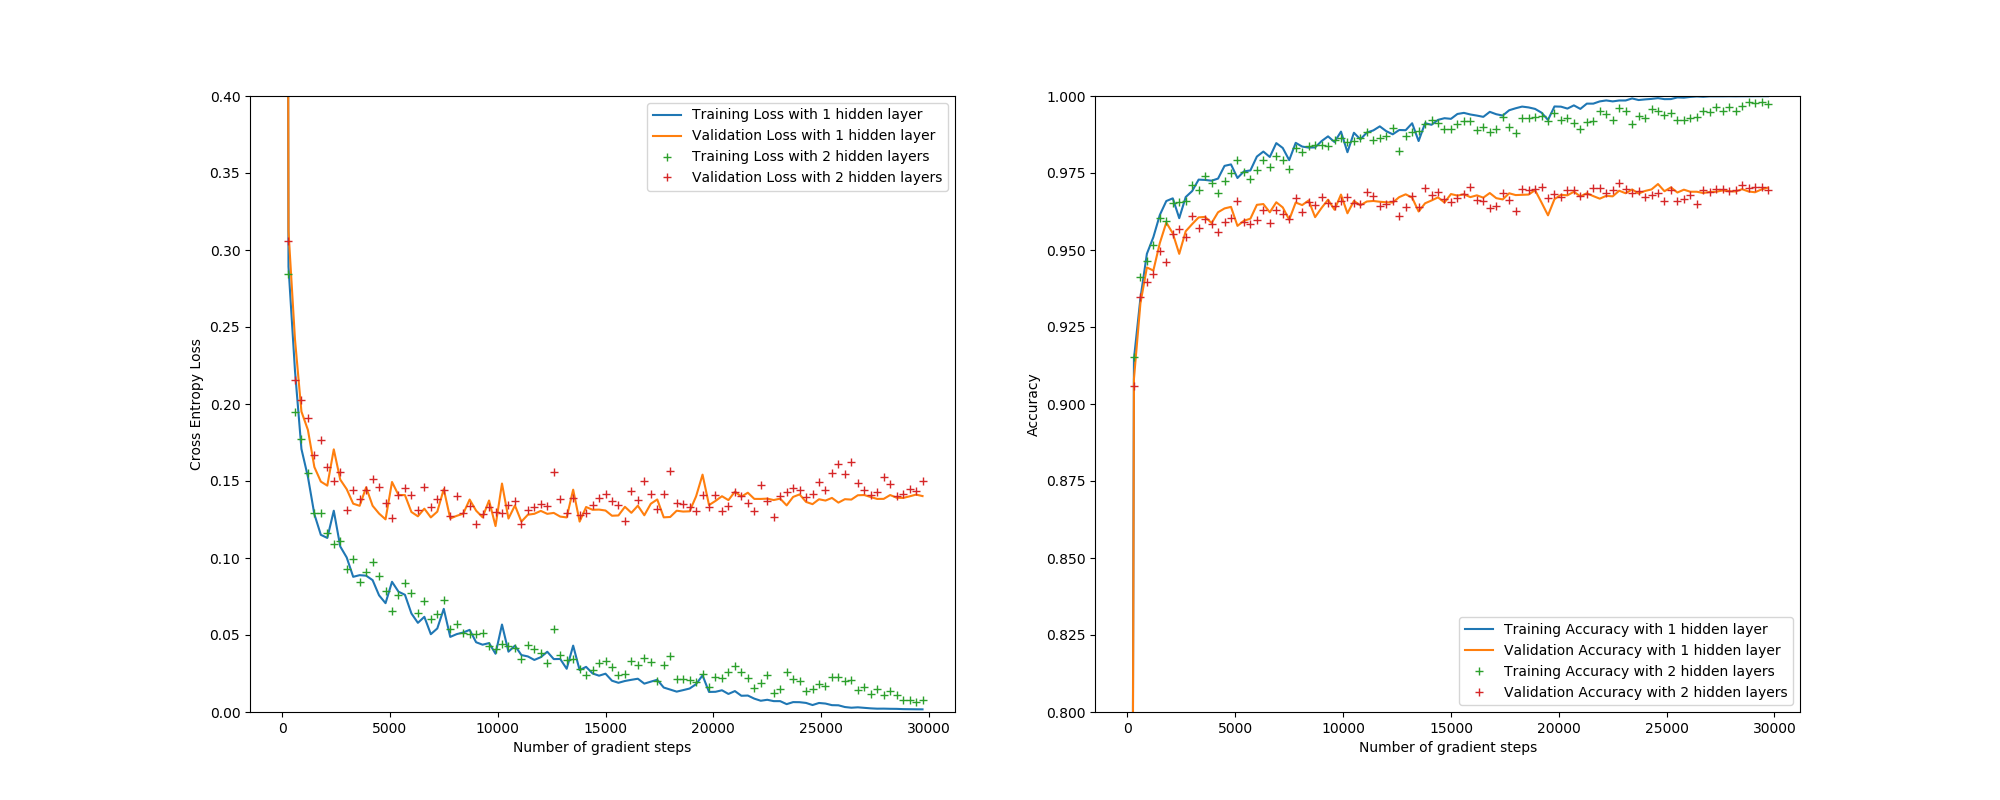
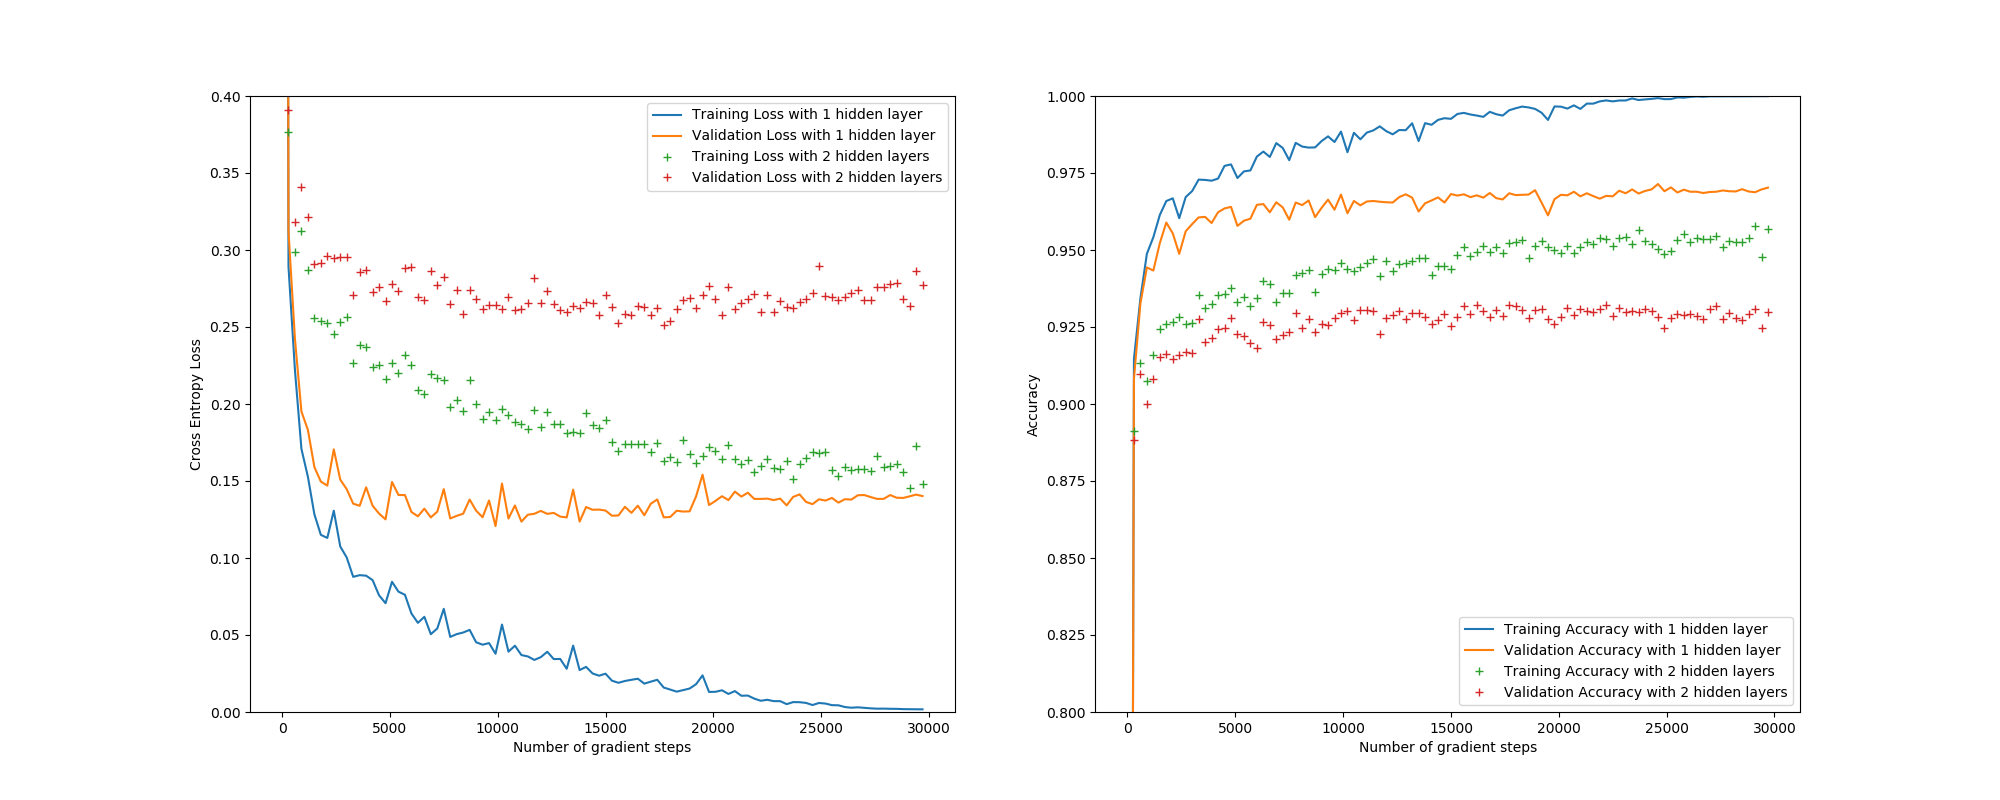
task 4a replotting with kyrre module for verification

diff --git a/assignment2/task4.py b/assignment2/task4.py
@@ -153,9 +153,9 @@ if __name__ == "__main__":
             # task 3d)
             #use_momentum = True
             # task 4a,b)
-            #neurons_per_layer[0] = 128
+            neurons_per_layer[0] = 16
             # task 4c,d)
-            neurons_per_layer = [64, 64, 10]
+            #neurons_per_layer = [64, 64, 10]
 
         model = SoftmaxModel(
             neurons_per_layer,
